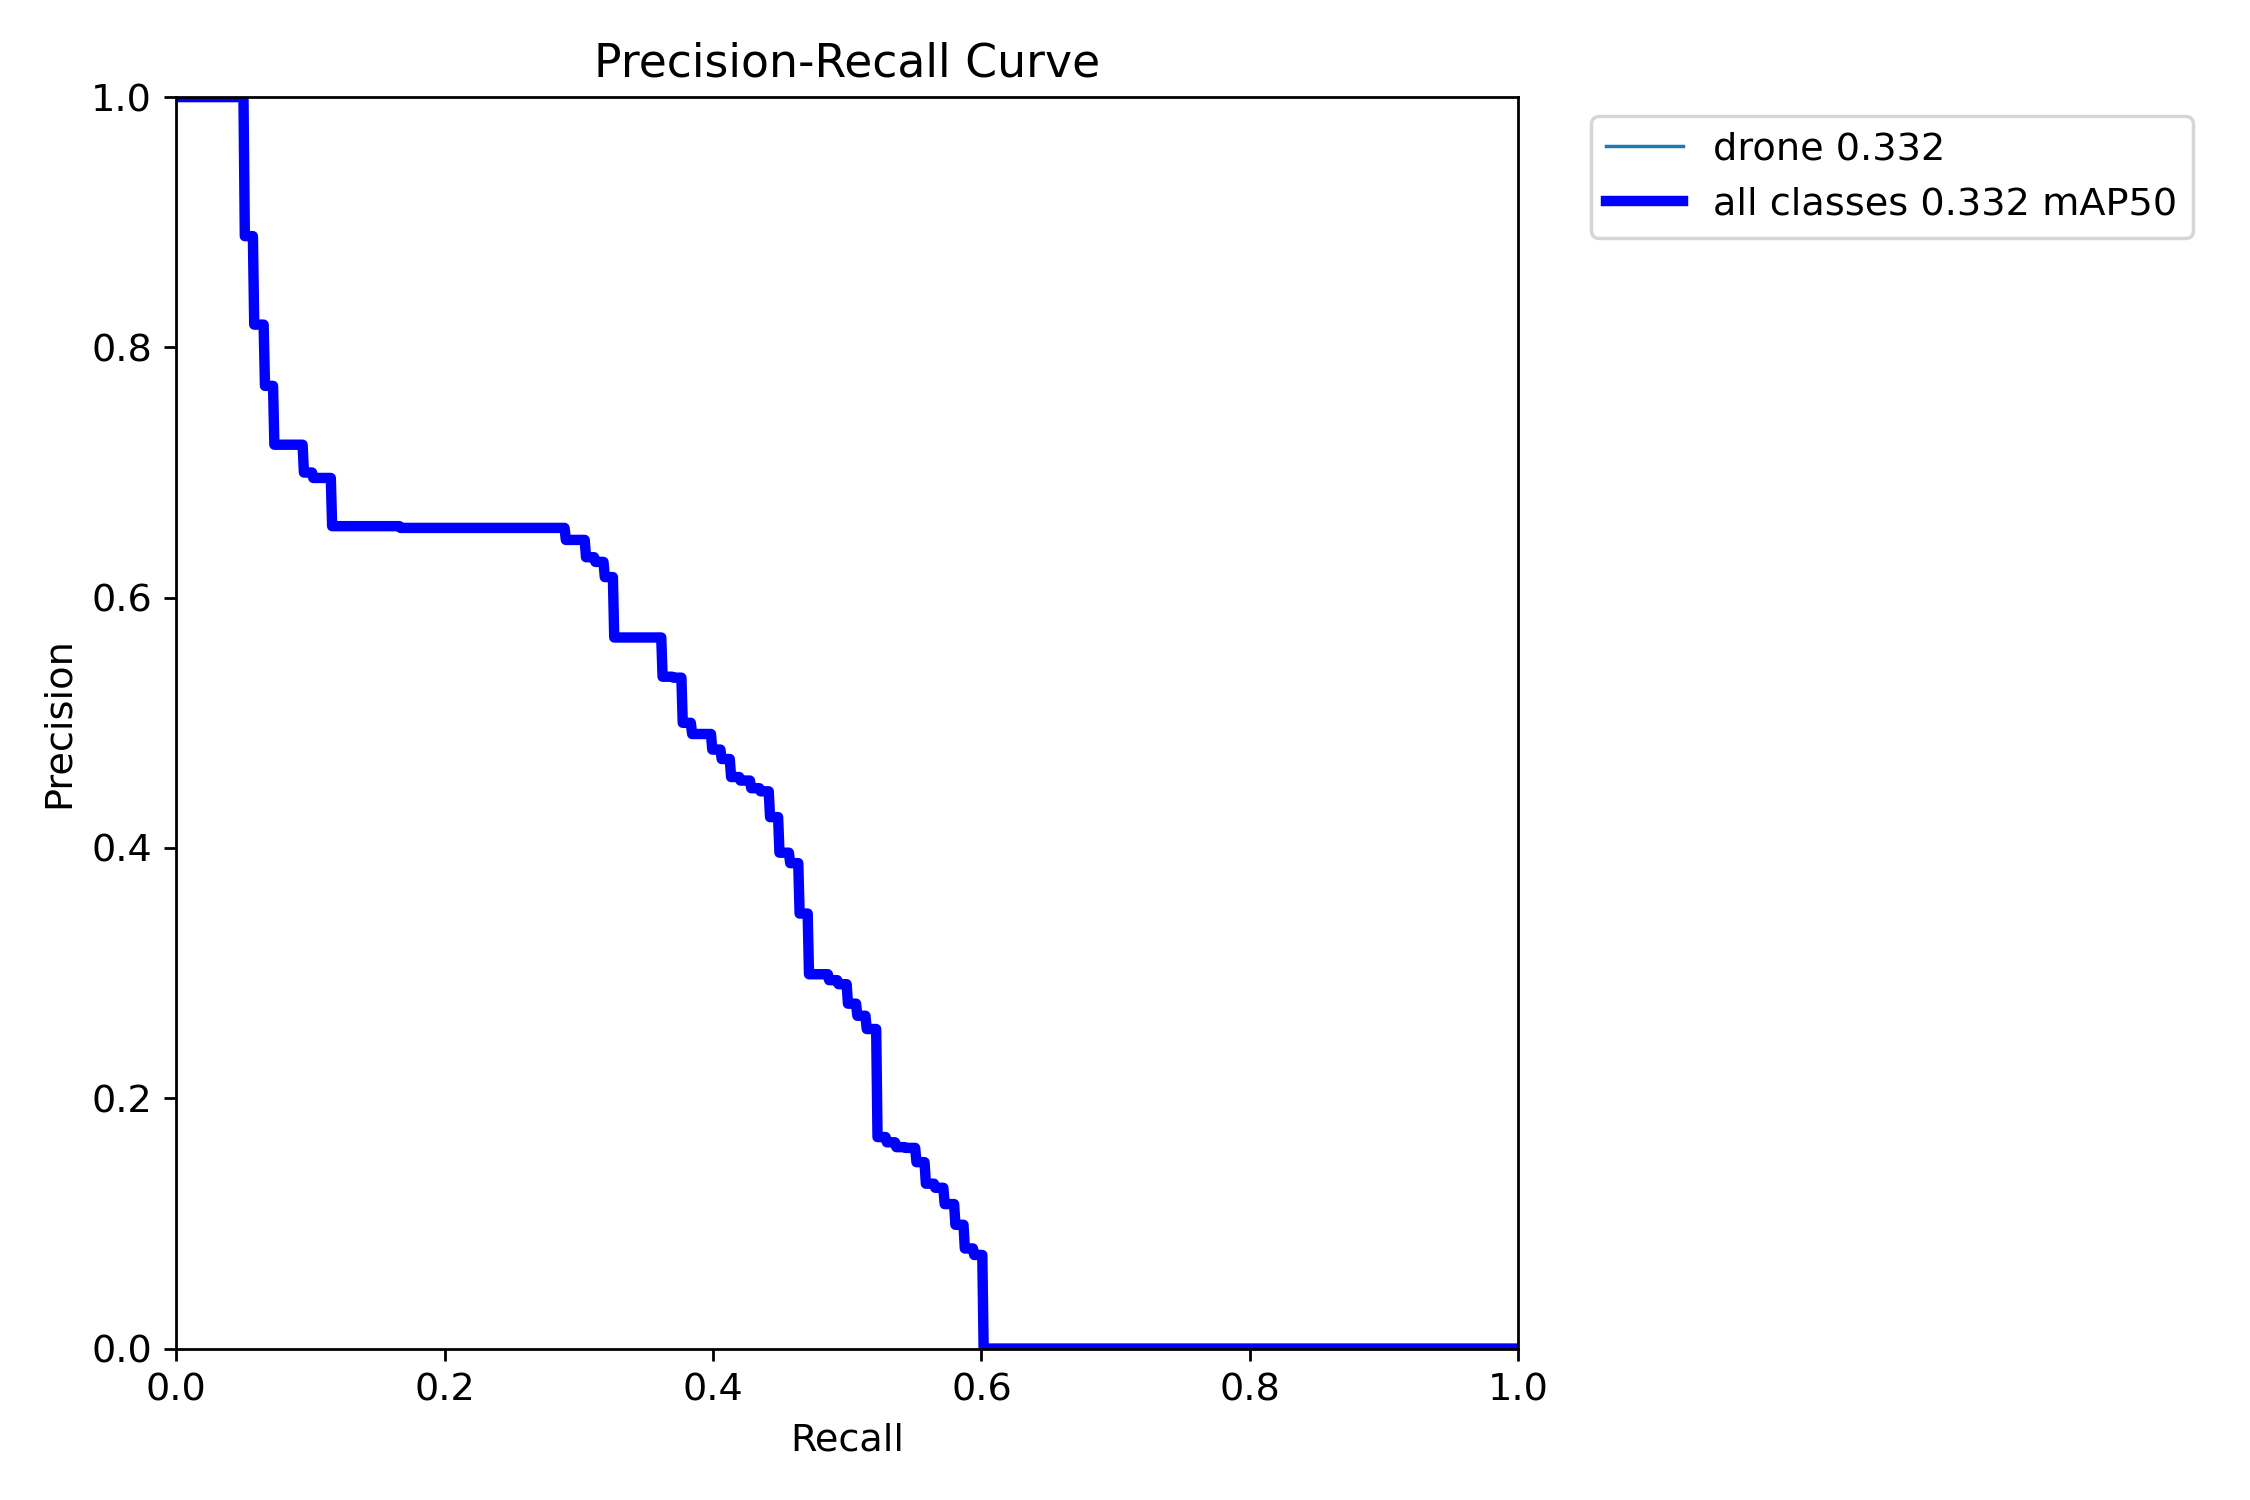
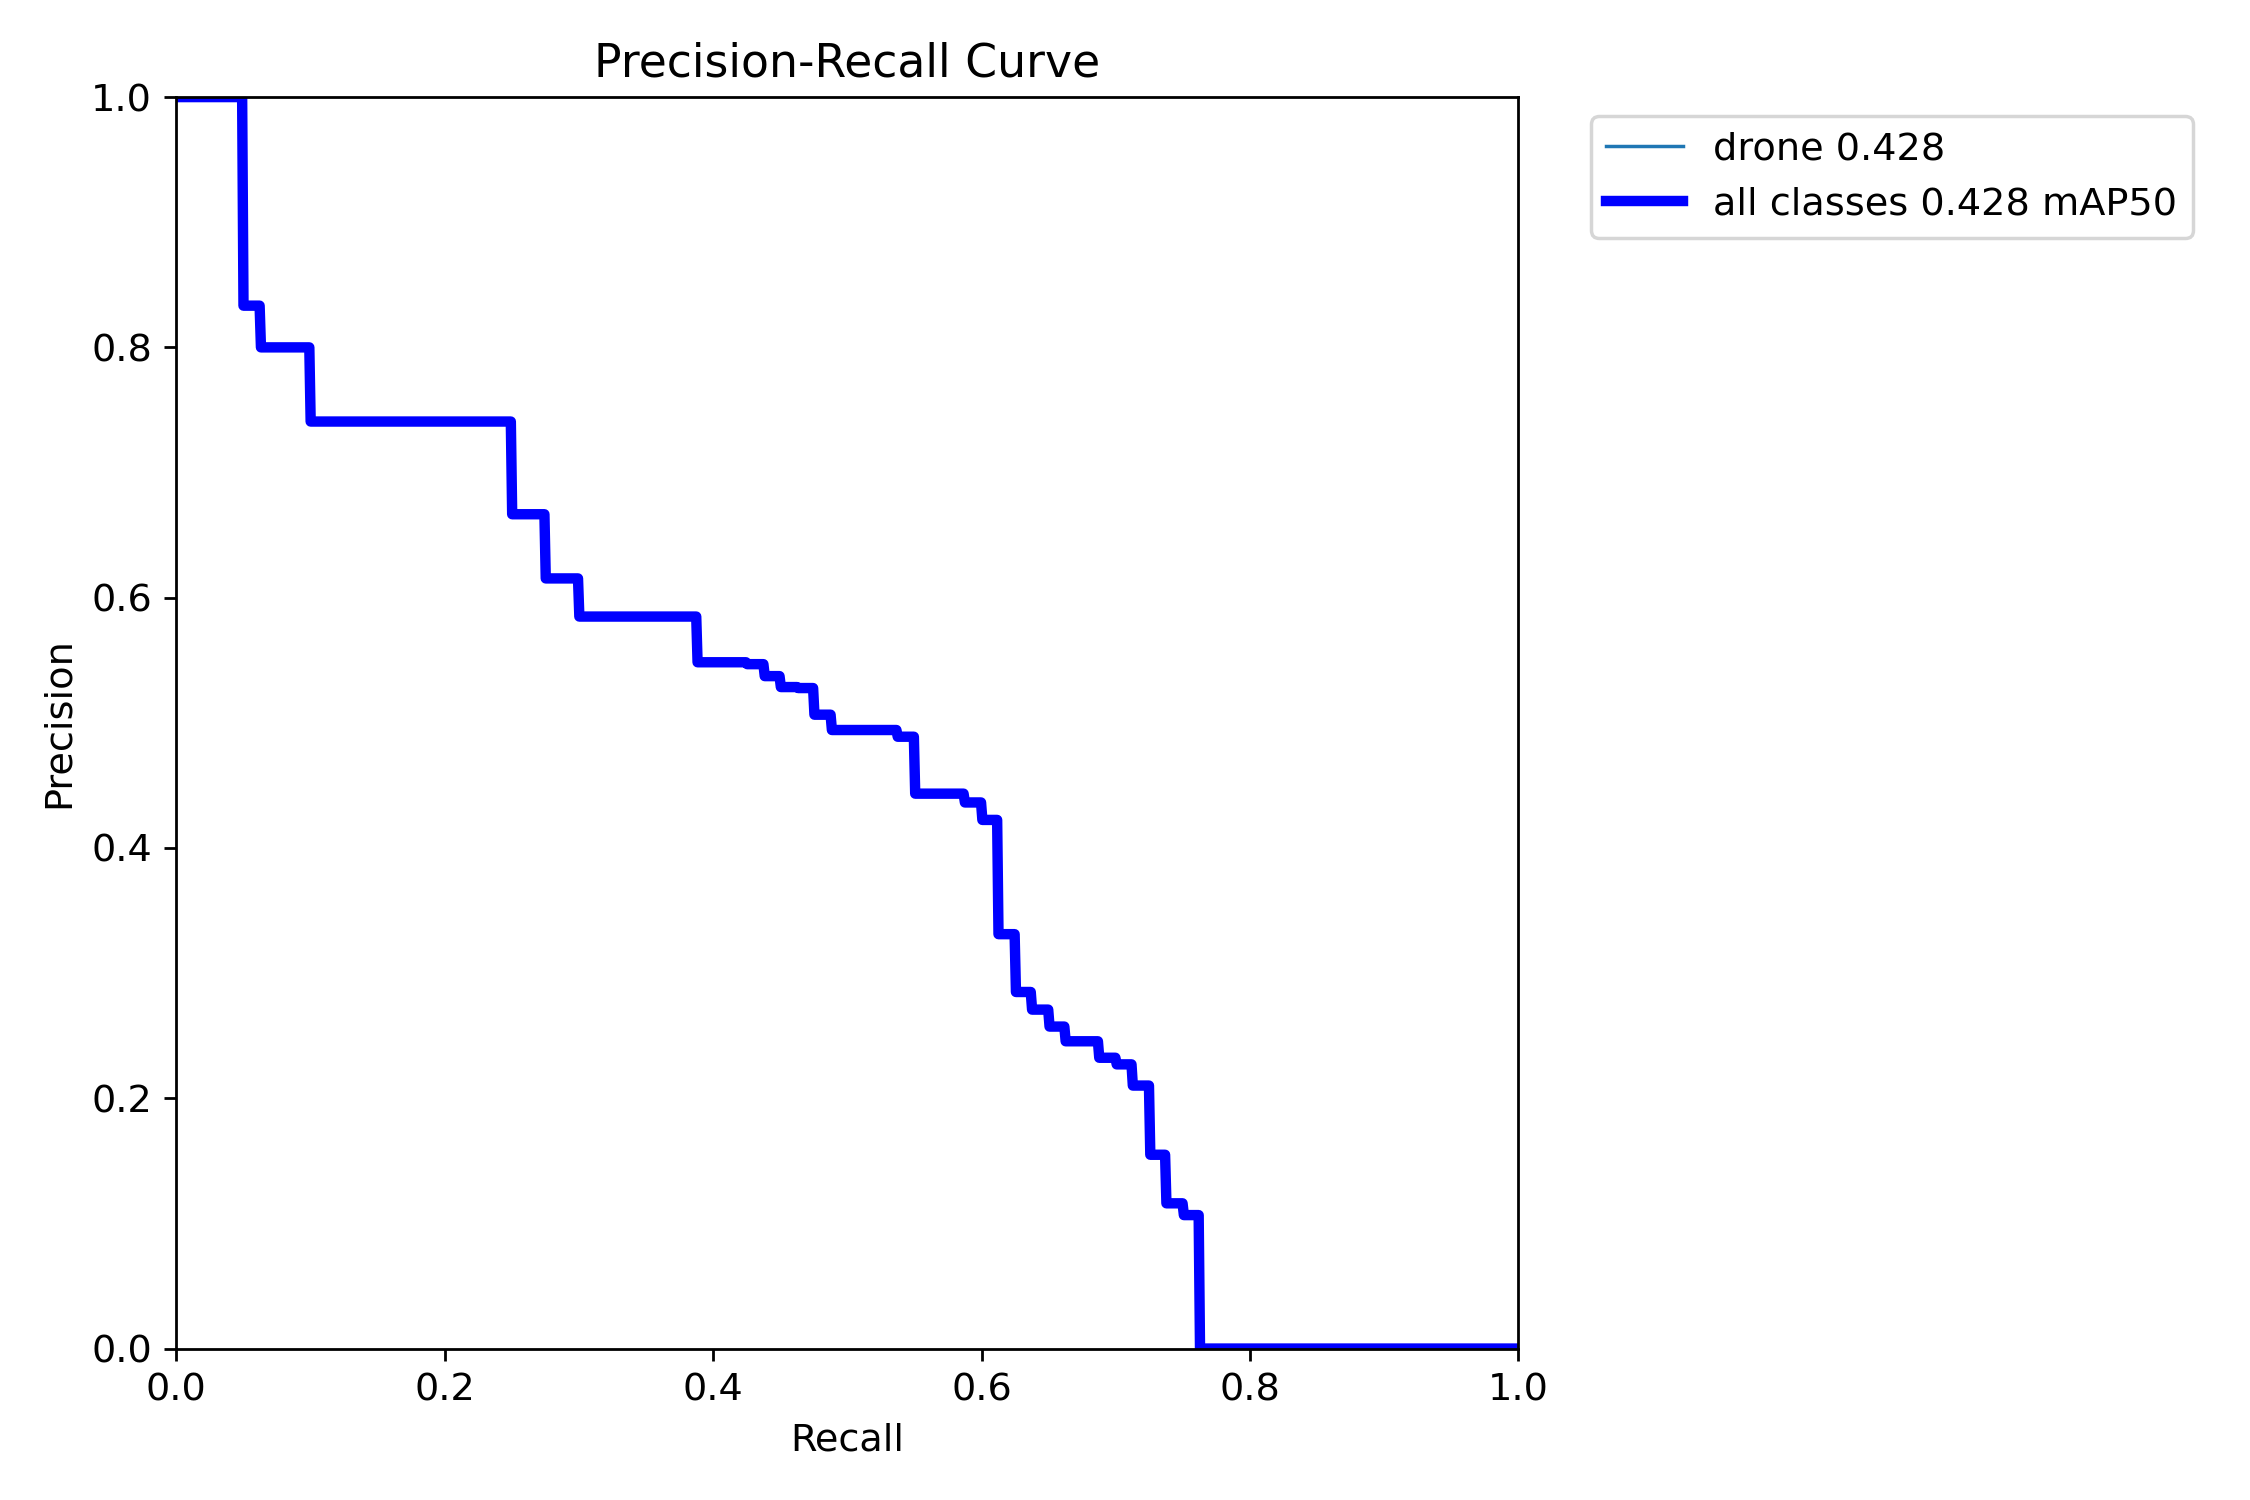
New PR curves after turining off mirroring for images in ds

diff --git a/README.md b/README.md
@@ -96,10 +96,10 @@ To get an honest estimate, I collected and manually labeled a **real test set**:
 82 frames from public videos, 138 Shahed instances, 5 frames without drones.
 The split is done **by video**, so no video appears in both val and test.
 
-| Model | Training data | mAP50 (synthetic val) | P | R | mAP50 | mAP50-95 |
+| Model | mAP50 (synthetic val) | Training data | P | R | mAP50 | mAP50-95 |
 |---|---|---|---|---|---|---|
-| A | Public drone datasets (Drone vs Bird, Drone Detection) | — | 0.446 | **0.428** | **0.332** | **0.177** |
-| B | A + synthetic Shahed v0.1 | 0.994 | 0.457 | 0.210 | 0.203 | 0.133 |
+| A | Public drone datasets (Drone vs Bird, Drone Detection) | — | 0.483 | **0.550** | **0.428** | **0.265** |
+| B | A + synthetic Shahed v0.1 | 0.994 |0.373 | 0.388 | 0.298 | 0.201 |
 
 *Real test set. YOLOv8s (11.1M params), imgsz=640, Ultralytics 8.4.215.
 P and R are reported at the confidence threshold that maximizes F1.*
@@ -110,7 +110,7 @@ P and R are reported at the confidence threshold that maximizes F1.*
 
 ### Findings
 
-- **Domain gap:** model B drops from mAP50 0.994 on synthetic val to 0.203 on real frames.
+- **Domain gap:** model B drops from mAP50 0.483 on synthetic val to 0.373 on real frames.
 - **Synthetic v0.1 hurt recall:** fine-tuning on synthetic data halved recall
   (0.43 → 0.21, i.e. 59 → 29 of 138 drones found). 
 - **Likely causes:**
